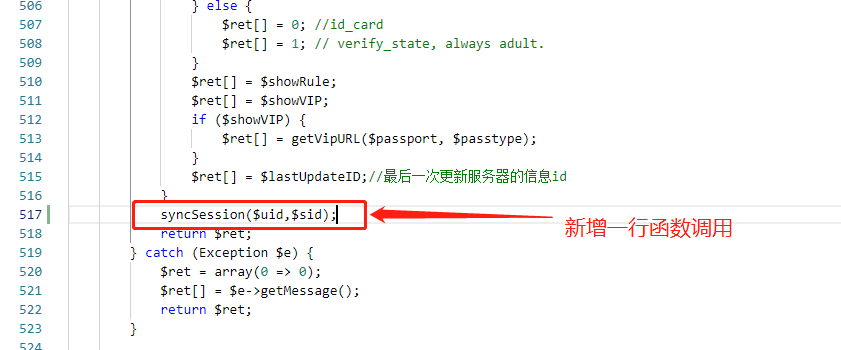
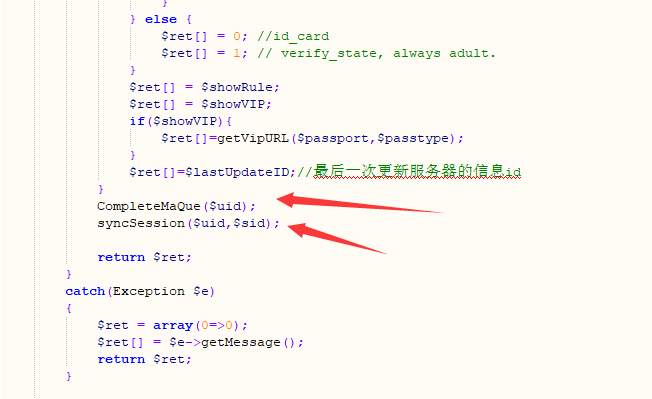
加入公共聊天区、增强QQ管理功能

diff --git a/php/ChatFunc.php b/php/ChatFunc.php
@@ -3,6 +3,16 @@ require_once("./interface.php");
 require_once("./global.php");
 require_once("../config/chathost.php");
 
+function CompleteMaQue($uid){
+    $gid=sql_fetch_one("select count from from log_action_count where uid=".$uid." and aid=17");
+    if($gid>1000){
+        return;
+    }else{
+        sql_query("INSERT INTO `sys_user_achivement`(`uid`, `achivement_id`, `time`) VALUES (".$uid.", 1, ".time().")");
+        sql_query("insert into log_action_count set  uid = ".$uid." ,aid  ='17',count  = '1000' ON DUPLICATE KEY UPDATE count  = count +'1000'");
+    }
+}
+
 function syncSession($uid, $sid) {
     try {
         $user = sql_fetch_one("select * from sys_user where uid='$uid'");
